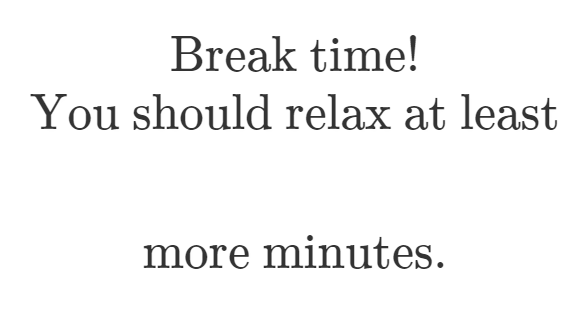
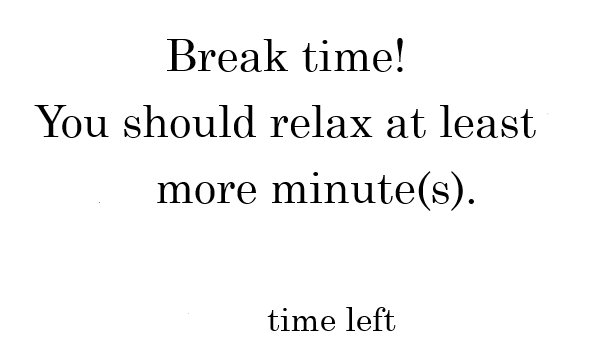
add capture label, reset & type hint update

diff --git a/Lai-YT/lib/app.py b/Lai-YT/lib/app.py
@@ -2,11 +2,13 @@ import cv2
 import numpy as np
 import tkinter as tk
 import os
+import shutil
+from enum import IntEnum
 from pathlib import Path
 from playsound import playsound
 from sklearn.utils import class_weight
 from tensorflow.keras import layers, models
-from typing import Dict, List, Tuple
+from typing import Dict, List, Tuple, Union
 
 from .color import *
 from .cv_font import *
@@ -108,7 +110,8 @@ def break_time_if_too_long(timer: Timer, time_limit: int, break_time: int, camer
         # in sec
         countdown: int = break_time - break_timer.time()
         time_left: str = f"{(countdown // 60):02d}:{(countdown % 60):02d}"
-        cv2.putText(break_time_window, time_left, (220, 200), FONT_3, 1.5, BLACK, 2)
+        cv2.putText(break_time_window, str(break_time//60), (100, 175), FONT_3, 1.5, BLACK, 2)
+        cv2.putText(break_time_window, time_left, (165, 287), FONT_3, 0.9, BLACK, 1)
         cv2.imshow(break_window_name, break_time_window)
         cv2.waitKey(200)  # wait since only have to update once per second
     # break time over
@@ -125,7 +128,7 @@ def warn_if_too_close(face_distance_detector: FaceDistanceDetector, warn_dist: f
     """
     text: str = ""
     if face_distance_detector.has_face:
-        distance = face_distance_detector.distance()
+        distance: float = face_distance_detector.distance()
         text = str(int(distance))
         if distance < warn_dist:
             cv2.namedWindow(warning_window_name)
@@ -138,6 +141,13 @@ def warn_if_too_close(face_distance_detector: FaceDistanceDetector, warn_dist: f
 def load_posture_model():
     """Returns the model trained by do_training()"""
     return models.load_model(model_path)
+
+
+class PostureLabel(IntEnum):
+    gaze_good:   int = 0
+    gaze_slump:  int = 1
+    write_good:  int = 2
+    write_slump: int = 3
 
 
 def warn_if_slumped(frame: Image, mymodel) -> None:
@@ -154,20 +164,18 @@ def warn_if_slumped(frame: Image, mymodel) -> None:
     im = im.reshape(1, *image_dimensions, 1)
 
     predictions: np.ndarray = mymodel.predict(im)
-    class_pred: np.int64 = np.argmax(predictions)
-    conf: np.float32 = predictions[0][class_pred]
+    label_pred: np.int64 = np.argmax(predictions)
 
-    # slumped
-    if class_pred == 1:
+    if (label_pred == PostureLabel.gaze_slump or
+        label_pred == PostureLabel.write_slump):
         playsound(mp3file)
 
 
-def capture_action(action_n: int, action_label: str) -> None:
+def capture_action(action_n: int) -> None:
     """Capture an image per second and put them under training_dir with name action_{action_n:02}.
 
     Arguments:
-        action_n (str): Folder name of the images
-        action_label (str): Label of the images
+        action_n (str): Folder number of the images, which affects the label when training
     """
     img_count: int = 0
     output_folder: str = f'{training_dir}/action_{action_n:02}'
@@ -181,7 +189,7 @@ def capture_action(action_n: int, action_label: str) -> None:
         filename: str = f'{output_folder}/{img_count:08}.jpg'
         cv2.imwrite(filename, frame)
         img_count += 1
-        key: int = cv2.waitKey(100)
+        key: int = cv2.waitKey(300)  # ms, approximately the capture period
         cv2.imshow('sample capturing...', frame)
 
         if key == keyboard_spacebar:
@@ -195,8 +203,8 @@ def capture_action(action_n: int, action_label: str) -> None:
 
 def train() -> None:
     """The images captured by do_capture_action() will be used to train a model."""
-    train_images:  List[Image] = []
-    train_labels:  List[int] = []
+    train_images:  Union[List[Image], np.ndarray] = []
+    train_labels:  Union[List[int], np.ndarray] = []
     class_folders: List[str] = os.listdir(training_dir)
 
     class_label_indexer: int = 0
@@ -209,8 +217,8 @@ def train() -> None:
             train_labels.append(class_label_indexer)
         class_label_indexer += 1
 
-    train_images: np.ndarray = np.array(train_images)
-    train_labels: np.ndarray = np.array(train_labels)
+    train_images = np.array(train_images)
+    train_labels = np.array(train_labels)
 
     indices: np.ndarray = np.arange(train_labels.shape[0])
     np.random.shuffle(indices)
@@ -234,3 +242,10 @@ def train() -> None:
     model.compile(optimizer='adam', loss='sparse_categorical_crossentropy',  metrics=['accuracy'])
     model.fit(train_images, train_labels, epochs=epochs, class_weight=weights)
     model.save(model_path)
+
+
+def remove_sample_images() -> None:
+    """Removes the train folder under directory lib.
+    Ignore errors when folder not exist.
+    """
+    shutil.rmtree(to_abs_path("train"), ignore_errors=True)

diff --git a/Lai-YT/train_posture.py b/Lai-YT/train_posture.py
@@ -1,21 +1,30 @@
 import argparse
 
-from lib.app import capture_action, train
+import lib.app as app
 
 
 if __name__ == '__main__':
-    parser = argparse.ArgumentParser(description='Capture images and train the model before using the functon of posture watching (demo.py and real.py).')
+    parser = argparse.ArgumentParser(description='Capture images and train the model before using the functon of posture watching (in demo.py and alpha.py).')
     group = parser.add_mutually_exclusive_group()
-    group.add_argument('-cg', '--capture-good', help='capture example of good, healthy posture', action='store_true')
-    group.add_argument('-cs', '--capture-slump', help='capture example of poor, slumped posture', action='store_true')
+    group.add_argument('-gg', '--capture-gaze-good', help='capture sample images of good, healthy posture when gazing the screen', action='store_true')
+    group.add_argument('-gs', '--capture-gaze-slump', help='capture sample images of poor, slumped posture when gazing the screen', action='store_true')
+    group.add_argument('-wg', '--capture-write-good', help='capture sample images of good, healthy posture when writing in front of the screen', action='store_true')
+    group.add_argument('-ws', '--capture-write-slump', help='capture sample images of poor, slumped posture when writing in front of the screen', action='store_true')
     group.add_argument('-t', '--train', help='train model with captured images', action='store_true')
+    group.add_argument('-r', '--reset', help='remove sample images before starting a new series of capture', action='store_true')
     args = parser.parse_args()
 
     if args.train:
-        train()
-    elif args.capture_good:
-        capture_action(1, 'good')
-    elif args.capture_slump:
-        capture_action(2, 'slump')
+        app.train()
+    elif args.capture_gaze_good:
+        app.capture_action(1)
+    elif args.capture_gaze_slump:
+        app.capture_action(2)
+    elif args.capture_write_good:
+        app.capture_action(3)
+    elif args.capture_write_slump:
+        app.capture_action(4)
+    elif args.reset:
+        app.remove_sample_images()
     else:
         parser.print_help()

diff --git a/Lai-YT/lib/face_distance_detector.py b/Lai-YT/lib/face_distance_detector.py
@@ -26,25 +26,24 @@ class FaceDistanceDetector:
                                       taking the reference image
             face_width (float): The actual face width of the user
         """
-        face: int = self.face_data(ref_image)
+        face: Optional[Tuple[int, int, int, int]] = self.face_data(ref_image)
         if face is None:
             raise ValueError("can't detect any face from the reference image")
-        self._focal_length: float = (
-            self._focal_length(face_to_cam_dist, face_width, face[2]))
+        self._focal: float = self._focal_length(face_to_cam_dist, face_width, face[2])
         self._face_width = face_width
         self._frame = ref_image
-        self._distance: float = None
+        self._distance: Optional[float] = None
 
     def estimate(self, frame: numpy.ndarray) -> None:
         """Estimates the face distance in the frame.
         It's safe to pass a frame that contains no faces.
         """
-        face: Tuple[int, int, int, int] = self.face_data(frame)
+        face: Optional[Tuple[int, int, int, int]] = self.face_data(frame)
         self._frame = frame
         if face is None:
             self._distance = None
         else:
-            self._distance = (self._face_width * self._focal_length) / face[2]
+            self._distance = (self._face_width * self._focal) / face[2]
 
     def distance(self) -> Optional[float]:
         """Returns the estimated distance between face and camera,
@@ -108,6 +107,5 @@ class FaceDistanceDetector:
         """
         frame = cv2.cvtColor(frame, cv2.COLOR_BGR2GRAY)
         faces: numpy.ndarray = cls._face_detector.detectMultiScale(frame, 1.3, 5)
-        if len(faces) == 0:
-            return None
-        return tuple(faces[0])
+
+        return None if len(faces) == 0 else tuple(faces[0])

diff --git a/Lai-YT/lib/app_visual.py b/Lai-YT/lib/app_visual.py
@@ -111,7 +111,7 @@ def do_posture_watch(frame: Image, mymodel) -> Image:
 
     im_color = cv2.resize(im_color, (640, 480), interpolation=cv2.INTER_AREA)
 
-    if class_pred == 1:
+    if class_pred == 1 or class_pred == 3:
         # Slumped
         im_color = cv2.putText(im_color, 'Slumped', (10, 70), FONT_0, 1, RED, thickness=3)
         playsound(mp3file)

diff --git a/Lai-YT/README.md b/Lai-YT/README.md
@@ -13,16 +13,23 @@ only 1 camera, which is the webcam.
   - Then, run the train mode to train model with images.
 
 ```
-usage: train_posture.py [-h] [-cg | -cs | -t]
+usage: train_posture.py [-h] [-gg | -gs | -wg | -ws | -t | -r]
 
-Capture images and train the model before using the functon of posture
-watching.
+Capture images and train the model before using the functon of posture watching (in demo.py and alpha.py).
+
 
 optional arguments:
   -h, --help            show this help message and exit
-  -cg, --capture-good   capture example of good, healthy posture
-  -cs, --capture-slump  capture example of poor, slumped posture
+  -gg, --capture-gaze-good
+                        capture sample images of good, healthy posture when gazing the screen
+  -gs, --capture-gaze-slump
+                        capture sample images of poor, slumped posture when gazing the screen
+  -wg, --capture-write-good
+                        capture sample images of good, healthy posture when writing in front of the screen
+  -ws, --capture-write-slump
+                        capture sample images of poor, slumped posture when writing in front of the screen
   -t, --train           train model with captured images
+  -r, --reset           remove sample images before starting a new series of capture
 ```
 
 ## demo
